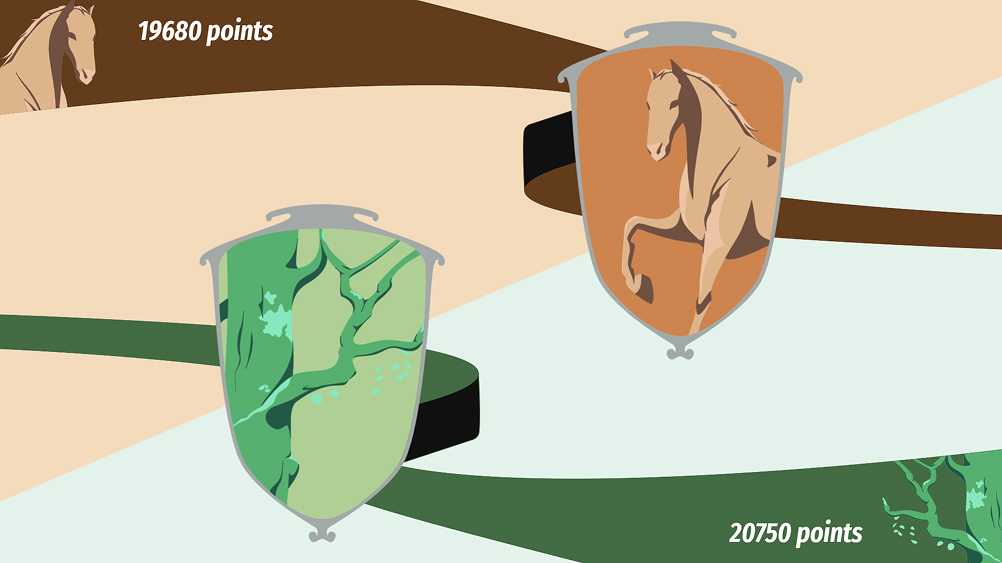
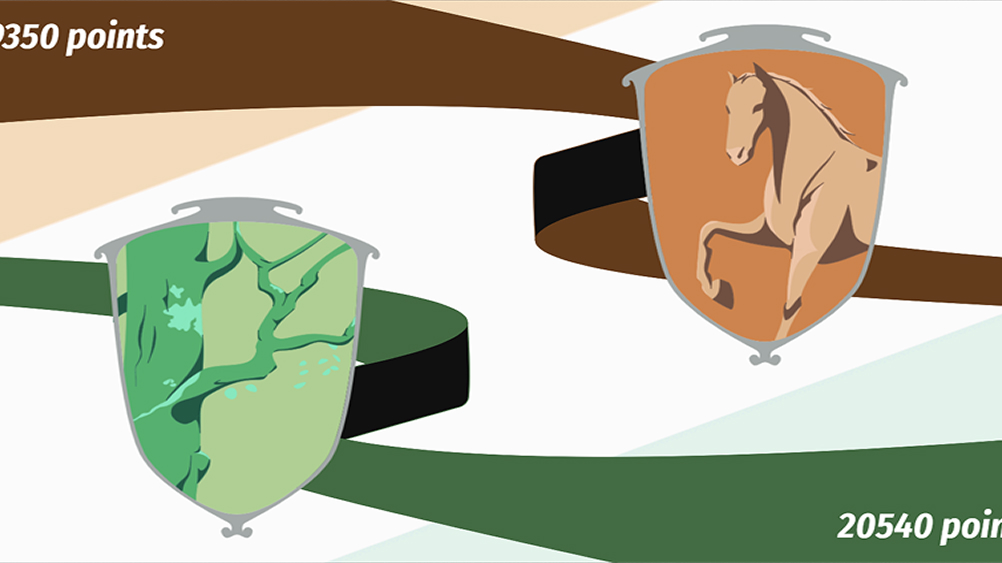
fix zizanie main page slider

diff --git a/index.html b/index.html
@@ -394,7 +394,7 @@
             <div class="swiper-wrapper">
                 <article class="swiper-slide">
                     <button class="slide-media btn-modal" data-modal="modal-zizanie" aria-haspopup="dialog"
-                        aria-label="En savoir plus sur La Zizanie">>
+                        aria-label="En savoir plus sur La Zizanie">
                         <img src="src/img/carousel/zizanie.jpg" alt="Image représentant le projet La Zizanie">
                     </button>
                     <div class="slide-caption">